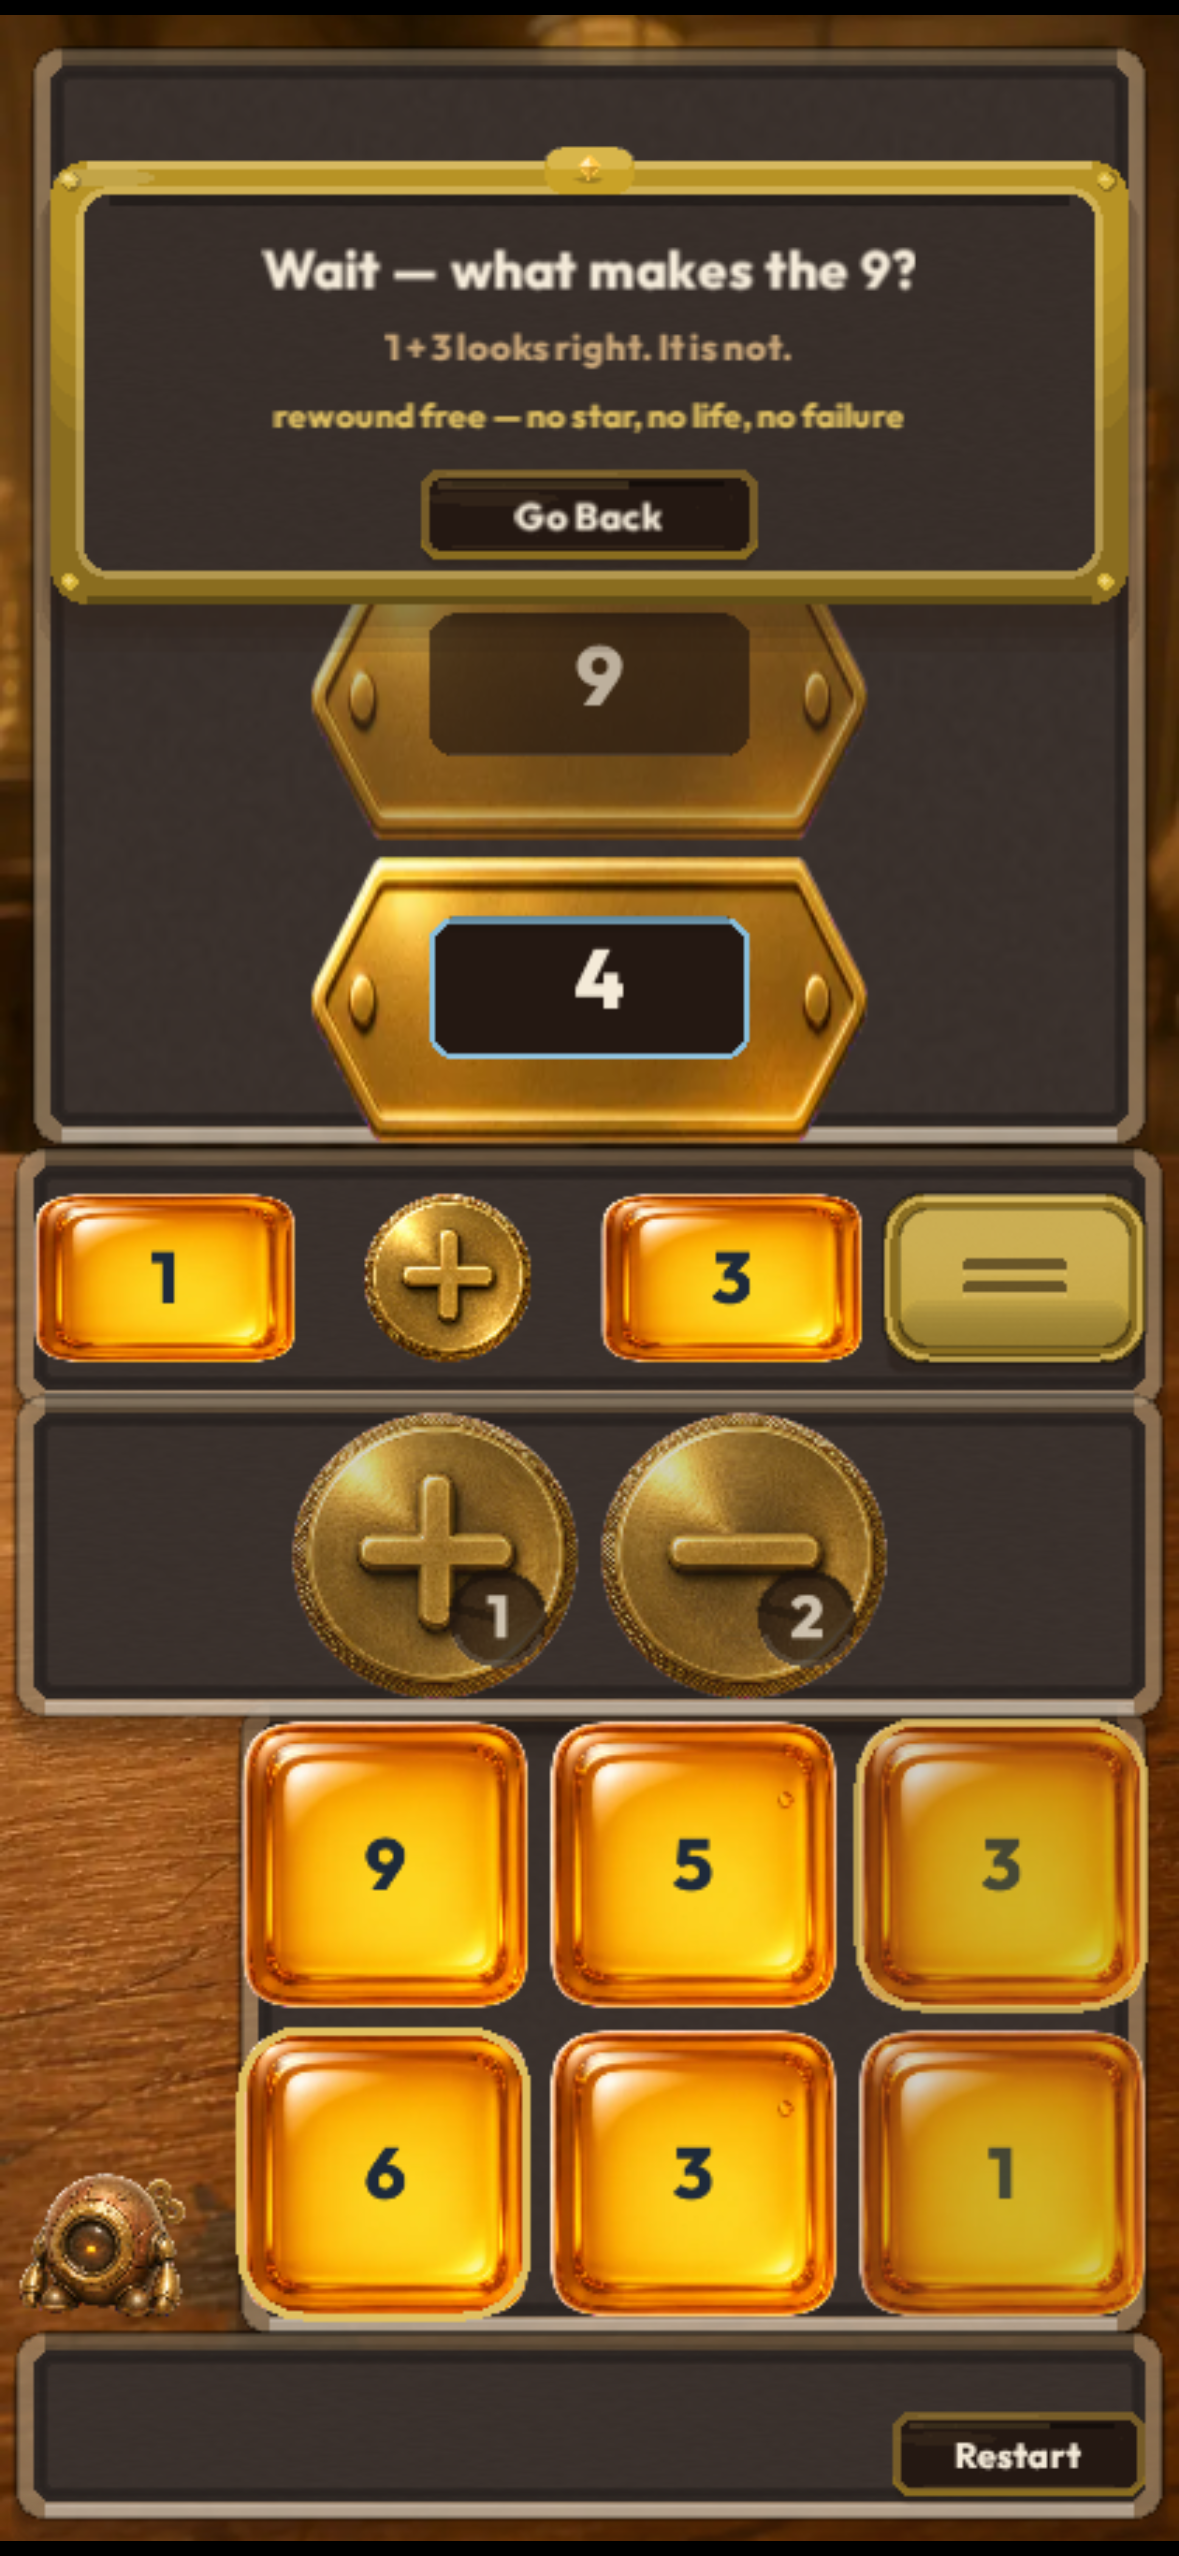
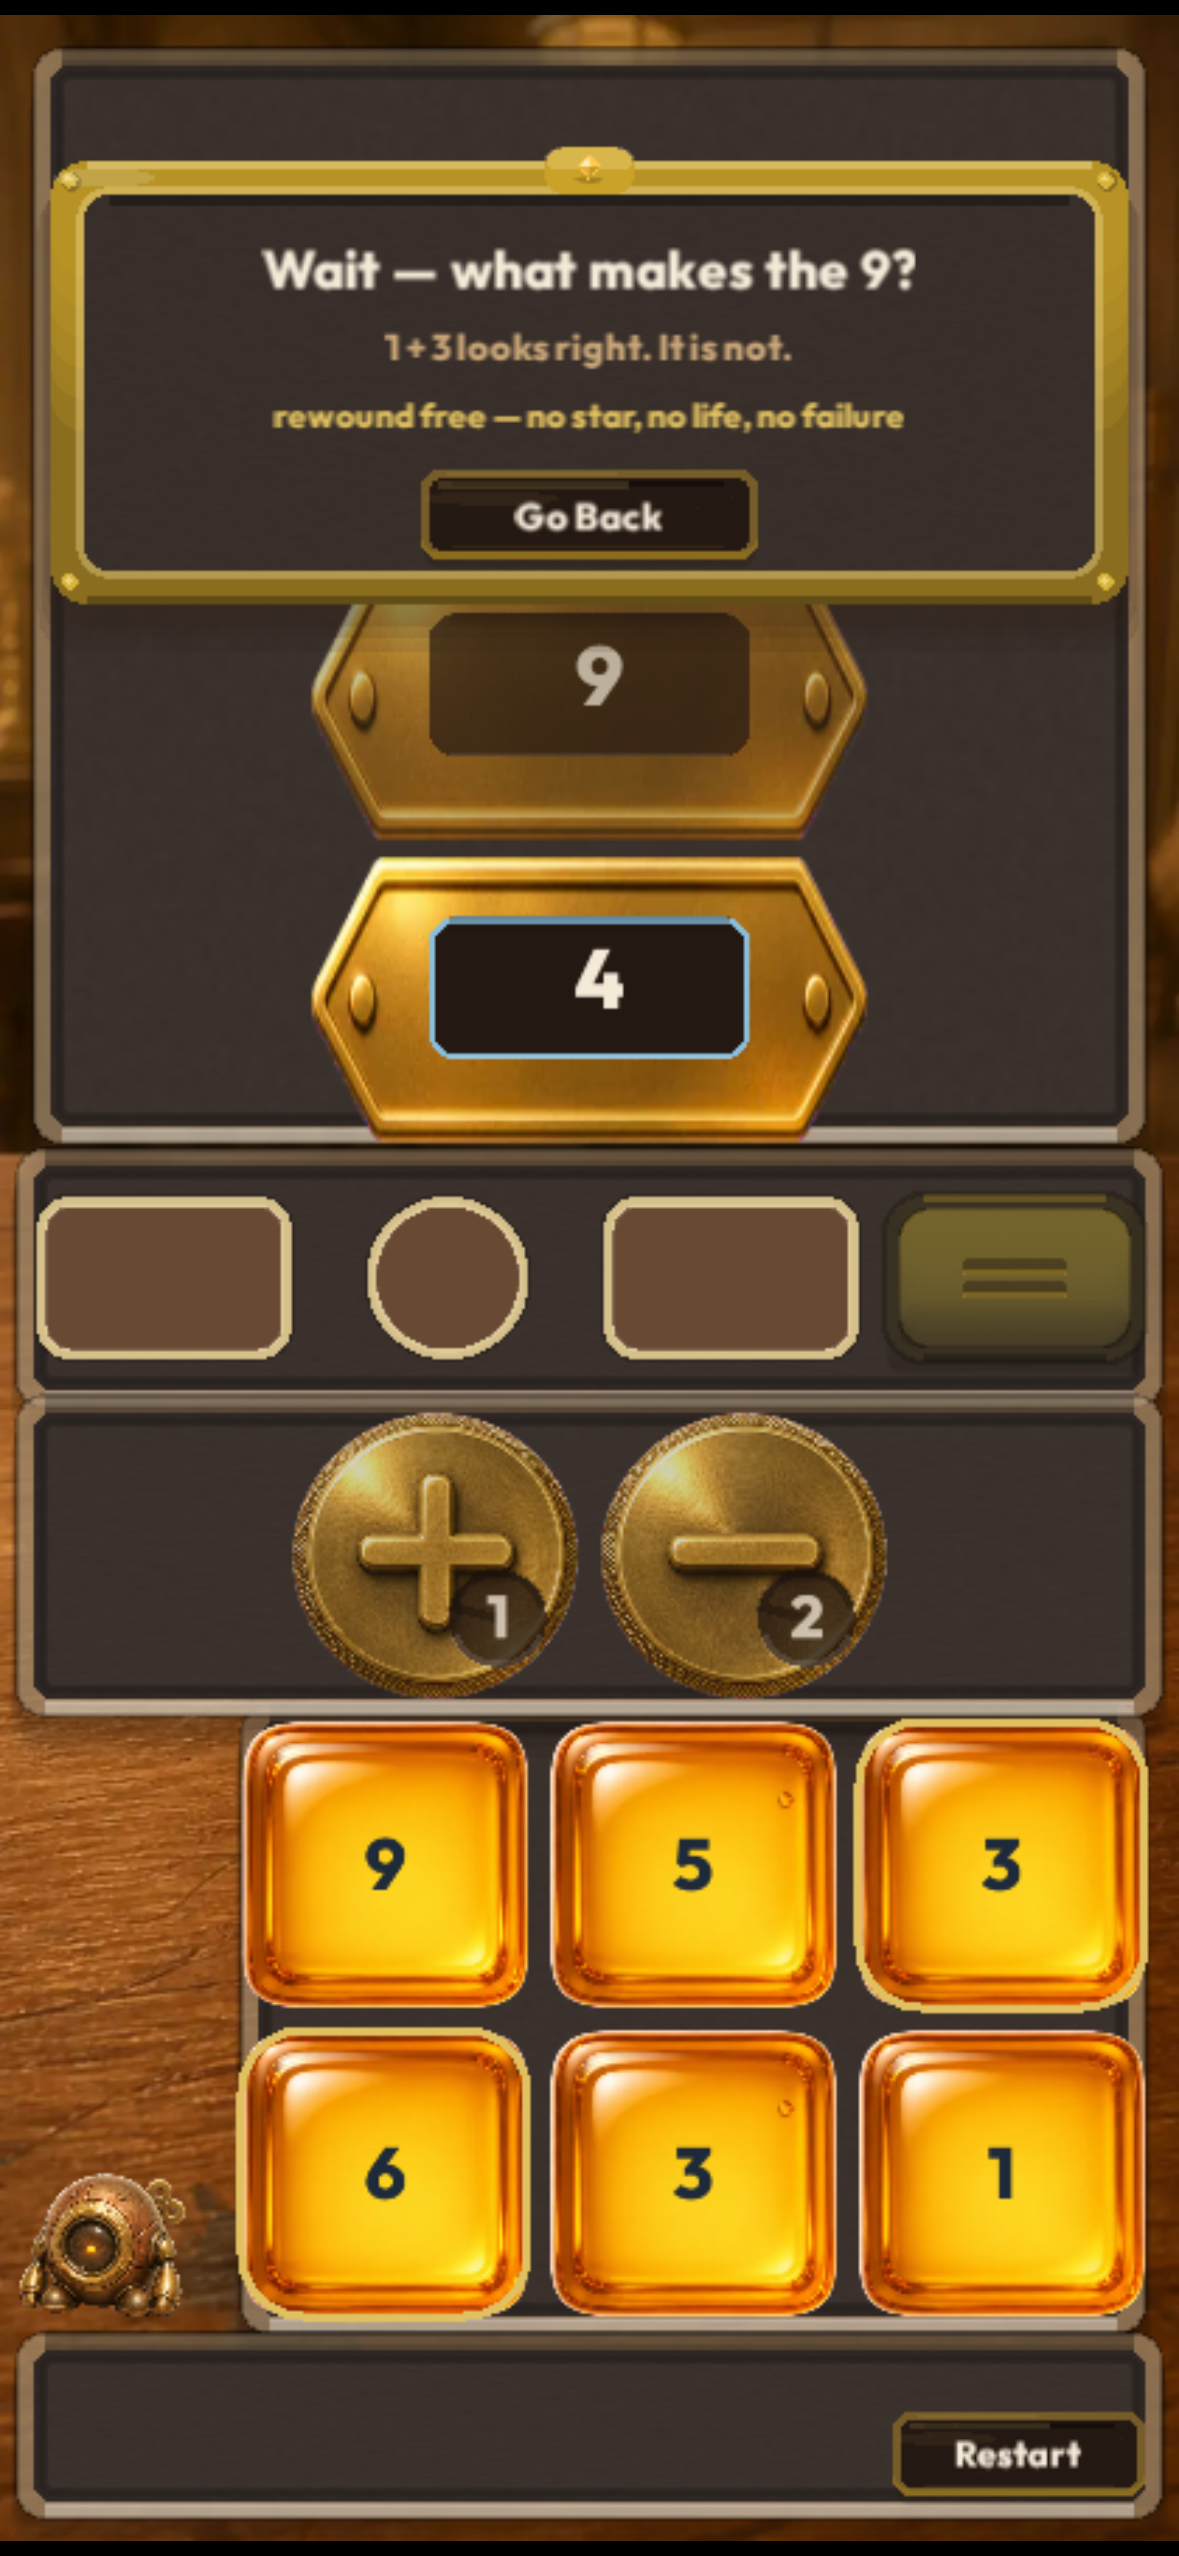
Fix PR 15 FTUE rewind and Library gate copy

diff --git a/src/game/director.ts b/src/game/director.ts
@@ -1068,19 +1068,16 @@ export class Director {
      * Blocking: nothing is consumed and nothing is recorded — the equation
      * rewinds, free (§7.5 step 5).
      *
-     * Warning: the equation STAYS STANDING, because the override has to be
-     * able to replay it. Clearing it here and rebuilding it from the pending
-     * move would work too, but it would put the same move through the tap path
-     * twice and diverge the moment either path grew a side effect.
+     * Warning: the scripted teaching frame stays in the renderer's hold, but
+     * the settled warning state itself is already rewound so its underlay is clean.
      */
     const blocks = this.warningBlocks;
     if (blocks) {
-      // Keep the scripted teaching equation filled until its free Go Back
-      // acknowledgement; ordinary blocking warnings still rewind immediately.
-      if (!this.scriptedTrapLevel) {
-        this.slots = { leftTileId: null, op: null, rightTileId: null };
-        this.swapArmed = null;
-      }
+      // A blocked move is rewound before the warning is shown. The scripted
+      // teaching beat keeps the PRE-REWIND state in the renderer's hold, but
+      // the settled Go Back panel must sit over a clean equation row.
+      this.slots = { leftTileId: null, op: null, rightTileId: null };
+      this.swapArmed = null;
       this.pendingFatal = null;
     } else {
       this.pendingFatal = { kind: "binary", leftId: left.id, rightId: right.id, op };

diff --git a/src/map/map-screen.ts b/src/map/map-screen.ts
@@ -824,7 +824,11 @@ export class MapScreen {
       const name = this.text(`${world}  ${WORLD_NAMES[world] ?? ""}`.toUpperCase(), 11, PALETTE.tokenInk, "900");
       name.position.set(PAD + 10, y + 7);
       this.root.addChild(this.entry(name, MAP_BANDS.header + world));
-      const blocked = levels.find((level) => level.state === "locked");
+      // Only a locked first plate owns the bunch-level gate copy. Once the
+      // previous bunch is complete, its first plate is the next focal and the
+      // remaining locked plates must not make an open bunch say "Clear the
+      // previous bunch" over its doorway.
+      const blocked = levels[0]?.state === "locked" ? levels[0] : undefined;
       if (world > 1 && blocked) {
         const gateLine = worldGateCopy(blocked.lockReason ?? "not-reached", v.worldGates[world] ?? 0, v.totalStars);
         const gate = this.text(gateLine, 9, PALETTE.tokenInk);

diff --git a/src/game/assists.test.ts b/src/game/assists.test.ts
@@ -219,8 +219,9 @@ describe("modes change assistance, not budget (GDD §6, amended)", () => {
   it("1-4 DOES name and pulse — it is the teaching beat, and it fires once", () => {
     const director = new Director(load(SCRIPTED_TRAP_LEVEL), "normal", freshEconomy());
     stageTrapMove(director);
-    const w = stateOf(director.handle({ type: "tapCommit" })).warning!;
-    expect(w.scripted).toBe(true);
+    const state = stateOf(director.handle({ type: "tapCommit" }));
+    const w = state.warning!;
+    expect(state.slots).toEqual({ leftTileId: null, op: null, rightTileId: null });
     expect(w.keystoneTarget).not.toBeNull();
     expect(w.keystoneTileIds.length).toBeGreaterThan(0);
   });

diff --git a/src/renderer/renderer.ts b/src/renderer/renderer.ts
@@ -784,6 +784,11 @@ export class Renderer {
           tween: new Tween(TIMING.place, EASE.settle),
         });
       } else if (before !== null) {
+        // The scripted trap's teaching beat already showed the staged equation;
+        // its settled warning is the rewind destination, not a second tile
+        // flight underneath the Go Back panel.
+        if (next.warning?.scripted) continue;
+
         const tile = next.tiles.find((t) => t.id === before);
 
         /*
